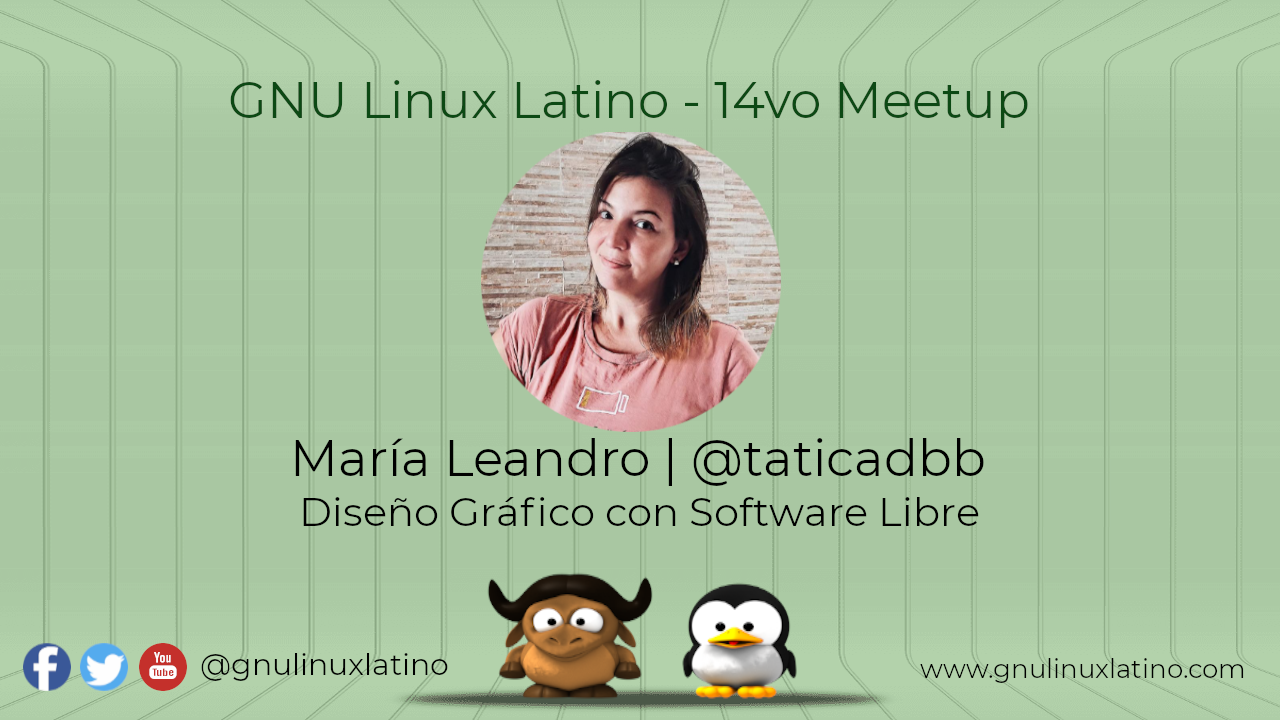
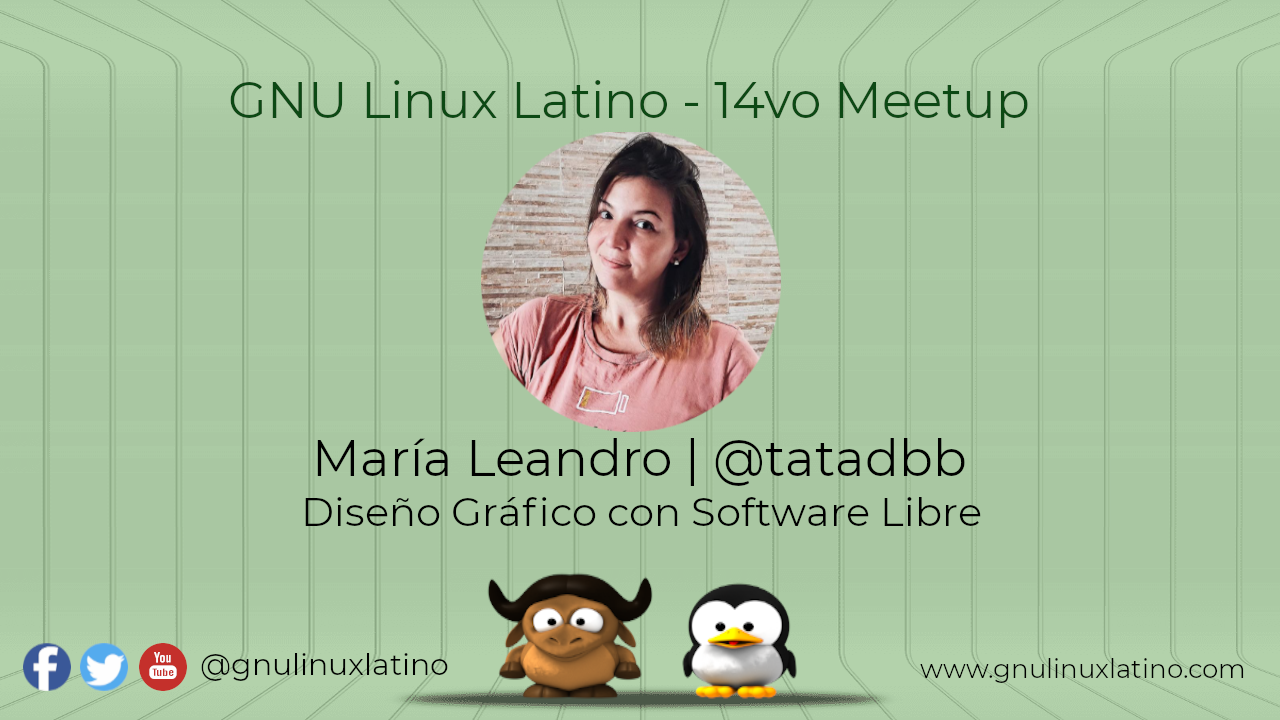
Fix. Tatica socials (#15)

Changed region(s): [[0.2188, 0.6111, 0.7812, 0.7333]]

diff --git a/content/talk/14vo-meetup/index.md b/content/talk/14vo-meetup/index.md
@@ -41,7 +41,7 @@ image:
 #   Uncomment and edit lines below to show custom links.
 links:
 - name: Follow
-  url: https://twitter.com/taticadbb
+  url: https://twitter.com/tatadbb
   icon_pack: fab
   icon: twitter
 
